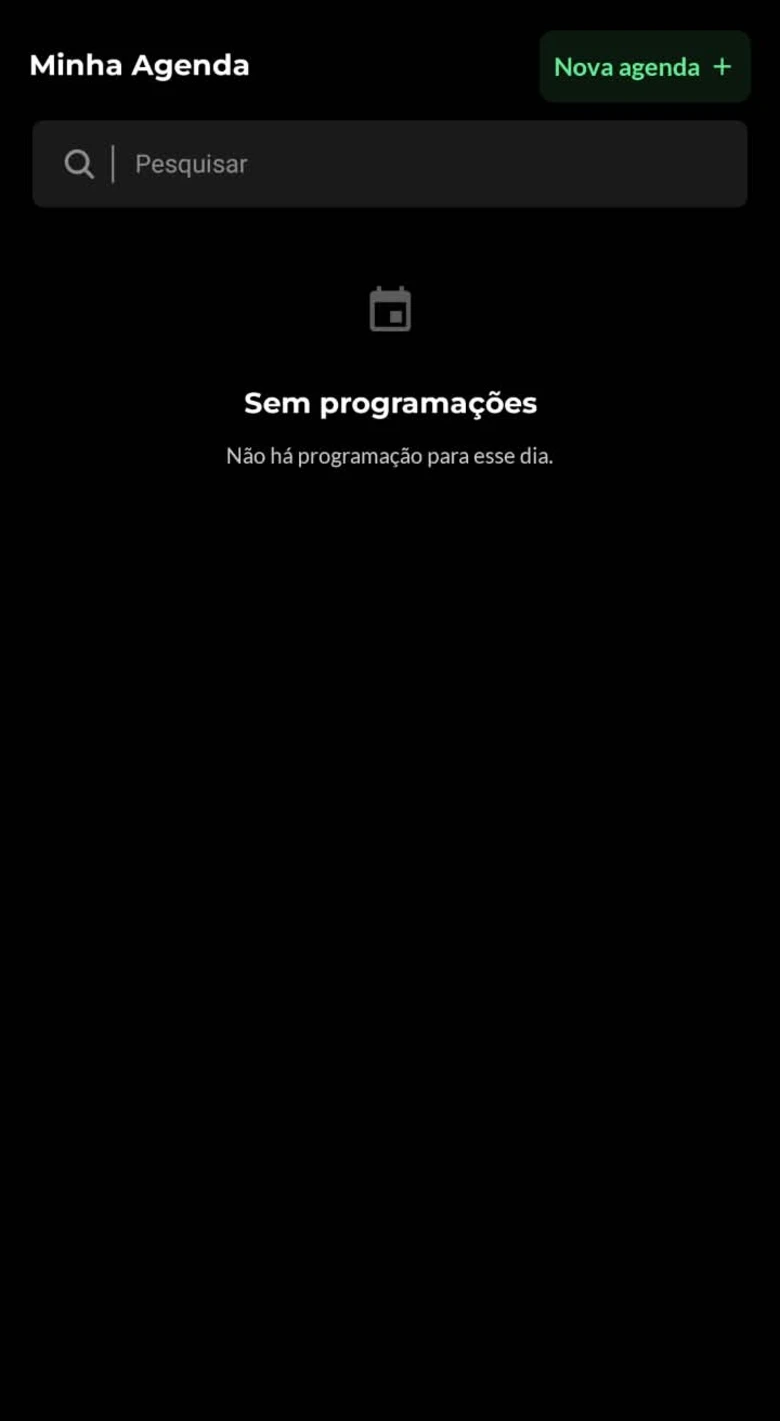
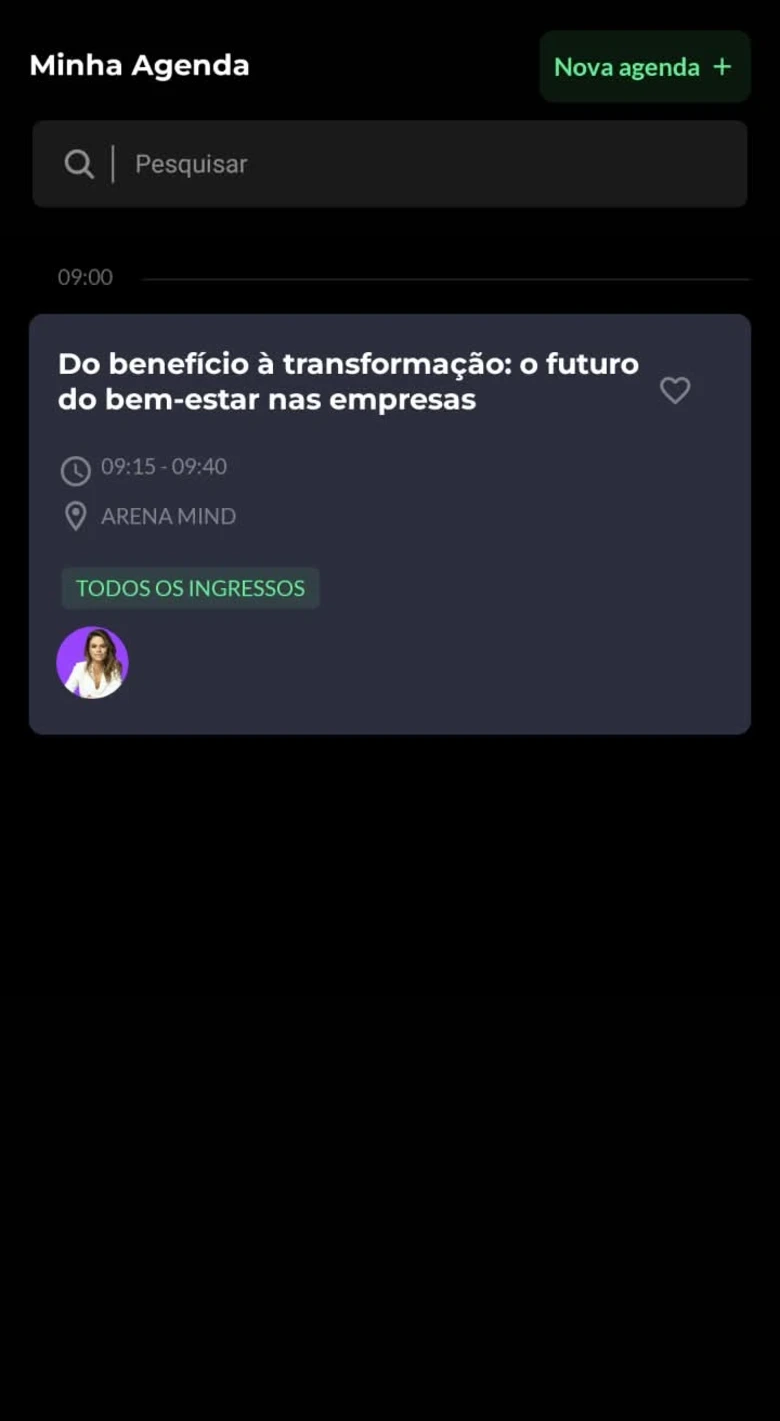
fix: unblock the tour and finish the venue swap
Teste no aparelho encontrou o que o meu teste anterior não encontrou: ele
clicava nos elementos por referência, e `.click()` programático passa por
cima de `pointer-events`. Um dedo não passa.

LAÇO INFINITO NA PRIMEIRA MISSÃO. Na Agenda, o alvo do cartão (y 57–85%)
continha inteiro o alvo do coração (y 59–64%) e vinha depois no DOM, então
recebia o toque. Tocar no coração abria a sessão, a missão continuava
pedindo o coração, o tour mandava voltar para a Agenda, e assim sem fim.
O cartão agora para onde o coração começa, e `.alvo.dica` ganhou
prioridade de empilhamento: o alvo da instrução sempre recebe o toque,
seja qual for o vizinho.

LOCAL DO EVENTO. A edição do mapa tinha sido perdida — ao reconverter as
oito capturas, o webp voltou a sair da foto original, com "Pavilhão 3 ·
Transamérica Expo Center". Refeita sobre o asset final: "São Paulo Expo ·
São Paulo", fundo reconstruído por interpolação para a curva escura da
direita não virar degrau.

CHIP ARENAS. O alvo estava 43px acima do chip, medido na captura antiga.
Remedido pelas bordas do próprio chip: 33,8% / 41,3%.

FRESTA NA TRAVA. Ela soltava aos 260ms enquanto o deslize dura 320ms.
Agora espera a animação terminar de verdade, com teto de 600ms para aba
em segundo plano, onde a animação congela e `finished` nunca resolveria.

MINHA AGENDA VAZIA. A captura nova veio sem programação, e a missão
"consultar a sua agenda" logo depois de reservar caía numa tela que dizia
[…]

Changed region(s): [[0.0308, 0.1858, 0.9846, 0.5264]]

diff --git a/app.js b/app.js
@@ -184,7 +184,7 @@ const TELAS = {
       { id: 'coracao', x: 86.5, y: 61.5, w: 13, h: 5, faz: 'favoritar', missao: 'm1',
         dica: 'Toque no <b>coração</b> para salvar esta sessão em Minha Agenda.',
         brinde: 'Salva em Minha Agenda 💚' },
-      { id: 'card', x: 50, y: 71, w: 92, h: 28, vai: 'detalhe', modo: 'push',
+      { id: 'card', x: 41, y: 71, w: 74, h: 28, vai: 'detalhe', modo: 'push',
         dica: 'Agora toque na <b>sessão</b> para abrir os detalhes.' },
     ],
   },
@@ -216,6 +216,8 @@ const TELAS = {
     alvos: [
       { id: 'nova', x: 82, y: 8, w: 30, h: 5, brinde: 'Dá para montar mais de uma agenda.' },
       { id: 'busca', x: 50, y: 14.3, w: 88, h: 5, brinde: 'Busque pelo nome da sessão.' },
+      { id: 'sessao', x: 50, y: 36.9, w: 92, h: 30.7,
+        brinde: 'A sessão que você reservou. No dia, o check-in é aqui dentro.' },
     ],
   },
   'qrcode': {
@@ -236,7 +238,6 @@ const TELAS = {
   },
   'menu': {
     img: 'menu', aba: 'menu', rotulo: 'Menu',
-    serve: 'O resto do app: mapa, rede, palestrantes, avisos, chat e o leitor de QR Code.',
     alvos: [
       { id: 'perfil', x: 31, y: 13.7, w: 32, h: 6, brinde: 'Em Editar Perfil você põe foto e cargo.' },
       { id: 'qrmini', x: 90.7, y: 13.9, w: 13, h: 6.5, vai: 'qrcode', modo: 'troca' },
@@ -254,7 +255,7 @@ const TELAS = {
     serve: 'Arenas, lounges, estandes e banheiros do São Paulo Expo — com filtro por tipo de espaço.',
     alvos: [
       { id: 'voltar', x: 7.7, y: 4.7, w: 12, h: 4.5, volta: true, dica: 'Toque em <b>‹</b> para voltar ao Menu.' },
-      { id: 'filtroArenas', x: 33.3, y: 38.3, w: 19, h: 4.5, faz: 'filtrar', missao: 'm5',
+      { id: 'filtroArenas', x: 33.8, y: 41.3, w: 18.5, h: 4.5, faz: 'filtrar', missao: 'm5',
         dica: 'Use os filtros para encontrar arenas, estandes e lounges. Toque em <b>Arenas</b>.',
         brinde: 'Só as arenas. A Arena Mind é a maior — fica à esquerda.' },
       { id: 'comousar', x: 17, y: 93, w: 30, h: 6, folha: 'comousar' },
@@ -485,6 +486,20 @@ function travar(v) {
 
 const espera = (ms) => new Promise((r) => setTimeout(r, ms));
 
+/* Solta a trava quando o deslize acaba de verdade, não num número fixo.
+   Com `espera(260)` sobrava uma fresta: o slide dura 320ms, e nela o
+   toque caía onde o alvo ainda não tinha chegado. O teto de 600ms existe
+   para aba em segundo plano, onde a animação fica congelada e `finished`
+   nunca resolveria. */
+function fimDaEntrada() {
+  const animacoes = conteudo.getAnimations ? conteudo.getAnimations() : [];
+  if (!animacoes.length) return espera(DURACAO_TROCA);
+  return Promise.race([
+    Promise.all(animacoes.map((a) => a.finished.catch(() => {}))),
+    espera(600),
+  ]);
+}
+
 /* --- desenha a tela atual --- */
 function pintar(modo) {
   const tela = TELAS[telaAtual];
@@ -507,7 +522,7 @@ function pintar(modo) {
     b.setAttribute('aria-label', (a.dica || a.brinde || a.id).replace(/<[^>]+>/g, ''));
     if (dica && dica.alvo === a.id) {
       b.classList.add('dica');
-      if (a.w > 40 || a.h > 12) b.classList.add('largo');
+      if (a.w > 40 || a.h > 12 || a.w / a.h > 3) b.classList.add('largo');
     }
     b.addEventListener('click', (e) => { e.stopPropagation(); tocar(a); });
     conteudo.appendChild(b);
@@ -532,7 +547,8 @@ function pintar(modo) {
   });
 
   /* para que serve esta tela — sempre visível */
-  rotulo.innerHTML = '<b>' + tela.rotulo + '</b><span>' + tela.serve + '</span>';
+  rotulo.hidden = !tela.serve;
+  rotulo.innerHTML = tela.serve ? '<b>' + tela.rotulo + '</b><span>' + tela.serve + '</span>' : '';
 
   /* balão azul: só a próxima ação */
   const alvoDica = dica && dica.alvo ? (tela.alvos || []).find((a) => a.id === dica.alvo) : null;
@@ -577,7 +593,7 @@ async function trocarTela(destino, modo) {
     const m = missaoAtual();
     if (m && m.tela === destino && !m.alvo) concluirMissao(m.id);
     pintar(modo);
-    await espera(DURACAO_TROCA);
+    await fimDaEntrada();
   } finally {
     travar(false);
   }

diff --git a/styles.css b/styles.css
@@ -510,6 +510,11 @@ body {
 /* Área de toque de no mínimo 44x44, sem mexer no anel visual: o alvo
    pequeno (coração, filtros) ganha um extensor invisível centrado nele,
    em vez de crescer e passar por cima do elemento destacado. */
+/* O alvo da instrução vem por cima de qualquer outro. Sem isto, um
+   alvo pequeno dentro de um grande — o coração dentro do cartão — perde
+   o toque para o vizinho e a missão nunca fecha. */
+.alvo.dica { z-index: 4; }
+
 .alvo::before {
   content: '';
   position: absolute; left: 50%; top: 50%;
@@ -560,7 +565,11 @@ body {
 .rotulo {
   position: absolute; left: 0; right: 0; top: 0;
   z-index: 4;
-  background: linear-gradient(to bottom, rgba(11,11,15,.96) 62%, rgba(11,11,15,0));
+  /* Opaco até depois da última linha de texto: a 62% o degradê já estava
+     clareando em cima da segunda linha e deixava o título da própria
+     captura vazar por trás. A dissolvência agora acontece só no respiro
+     de baixo. */
+  background: linear-gradient(to bottom, rgba(11,11,15,.985) 0 78%, rgba(11,11,15,0) 100%);
   padding: 2.6cqw 4cqw 5cqw;
   pointer-events: none;
 }
